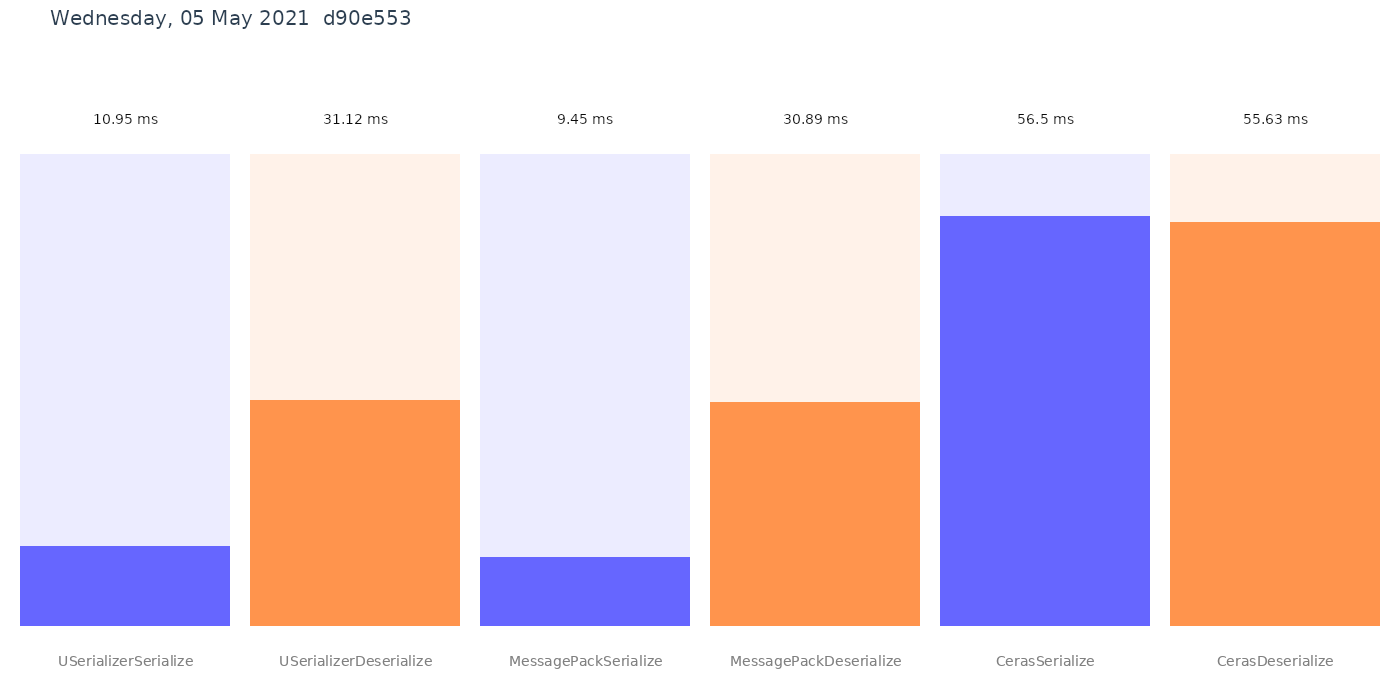
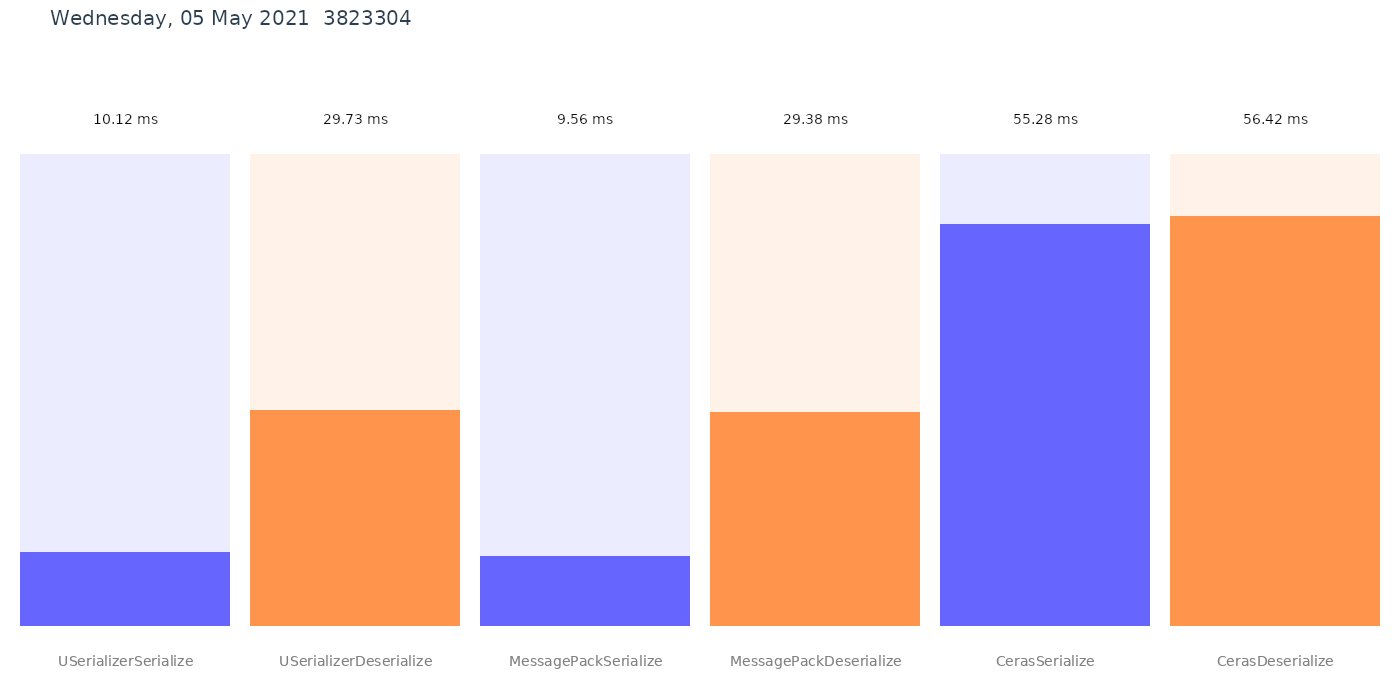
deploy: 3823304f972449246786794293b405486845c66b

diff --git a/performance.md b/performance.md
@@ -1,7 +1,7 @@
 ``` ini
 
 BenchmarkDotNet=v0.12.1, OS=ubuntu 20.04
-Intel Xeon CPU E5-2673 v3 2.40GHz, 1 CPU, 2 logical and 2 physical cores
+Intel Xeon Platinum 8171M CPU 2.60GHz, 1 CPU, 2 logical and 2 physical cores
 .NET Core SDK=5.0.202
   [Host]   : .NET Core 5.0.5 (CoreCLR 5.0.521.16609, CoreFX 5.0.521.16609), X64 RyuJIT
   ShortRun : .NET Core 5.0.5 (CoreCLR 5.0.521.16609, CoreFX 5.0.521.16609), X64 RyuJIT
@@ -10,11 +10,11 @@ Job=ShortRun  IterationCount=3  LaunchCount=1
 WarmupCount=3  
 
 ```
-|                 Method |      Mean |     Error |    StdDev |
-|----------------------- |----------:|----------:|----------:|
-|   USerializerSerialize | 10.949 ms |  9.001 ms | 0.4934 ms |
-| USerializerDeserialize | 31.115 ms | 19.563 ms | 1.0723 ms |
-|   MessagePackSerialize |  9.454 ms |  3.805 ms | 0.2086 ms |
-| MessagePackDeserialize | 30.891 ms |  8.960 ms | 0.4911 ms |
-|         CerasSerialize | 56.497 ms |  9.399 ms | 0.5152 ms |
-|       CerasDeserialize | 55.631 ms |  6.411 ms | 0.3514 ms |
+|                 Method |      Mean |      Error |    StdDev |
+|----------------------- |----------:|-----------:|----------:|
+|   USerializerSerialize | 10.122 ms |  0.8423 ms | 0.0462 ms |
+| USerializerDeserialize | 29.734 ms |  5.9433 ms | 0.3258 ms |
+|   MessagePackSerialize |  9.561 ms |  6.6320 ms | 0.3635 ms |
+| MessagePackDeserialize | 29.379 ms |  3.9497 ms | 0.2165 ms |
+|         CerasSerialize | 55.281 ms |  6.4357 ms | 0.3528 ms |
+|       CerasDeserialize | 56.417 ms | 11.9577 ms | 0.6554 ms |
